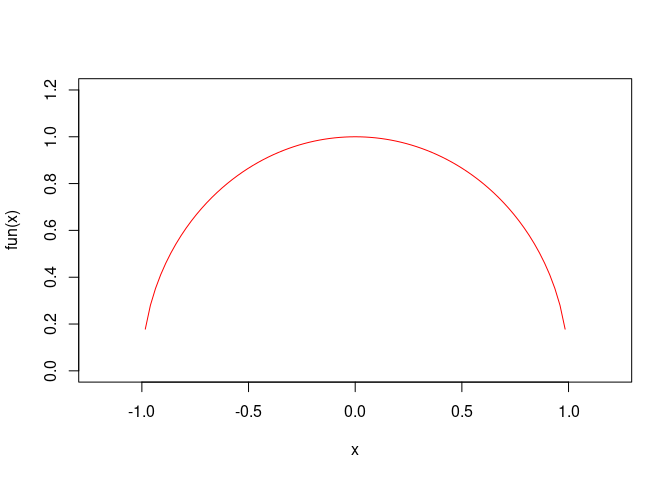
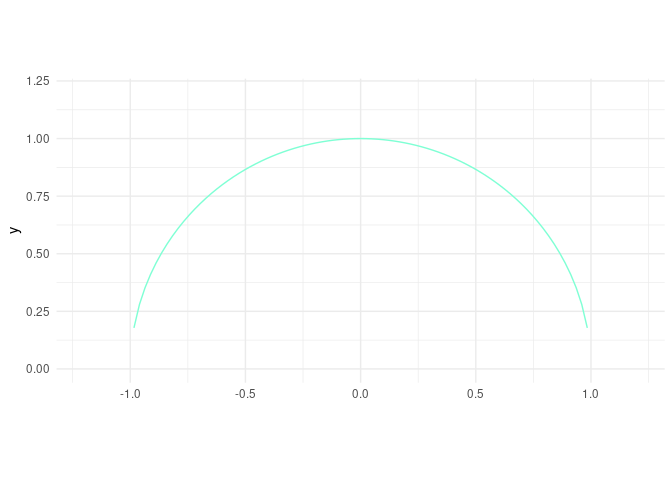
Updated .md to have ggplot plots

diff --git a/Pi_estimate_in_R.md b/Pi_estimate_in_R.md
@@ -11,13 +11,23 @@ $f(x) = (1-x^2)^\\frac{1}{2}$
 
 ``` r
 library(ggplot2)
+x = seq(-1, 1, .01)
 fun <- function(x) {(1 - x^2)^.5}
+y = fun(x)
+
+half_circle = data.frame(x, y)
 
 p <- ggplot() +
-  xlim(c(0,1.2)) +
-  geom_function(fun = fun)
-curve(fun(x), xlim = c(-1.2,1.2), ylim = c(0,1.2), col = "red")
+ geom_function(fun = fun, color = "aquamarine") +
+ xlim(c(-1.2,1.2)) +
+ ylim(c(0, 1.2)) +
+ theme_minimal() +
+ coord_fixed()
+  
+p
 ```
+
+    ## Warning: Removed 18 row(s) containing missing values (geom_path).
 
 ![](Pi_estimate_in_R_files/figure-gfm/unnamed-chunk-1-1.png)<!-- -->
 
